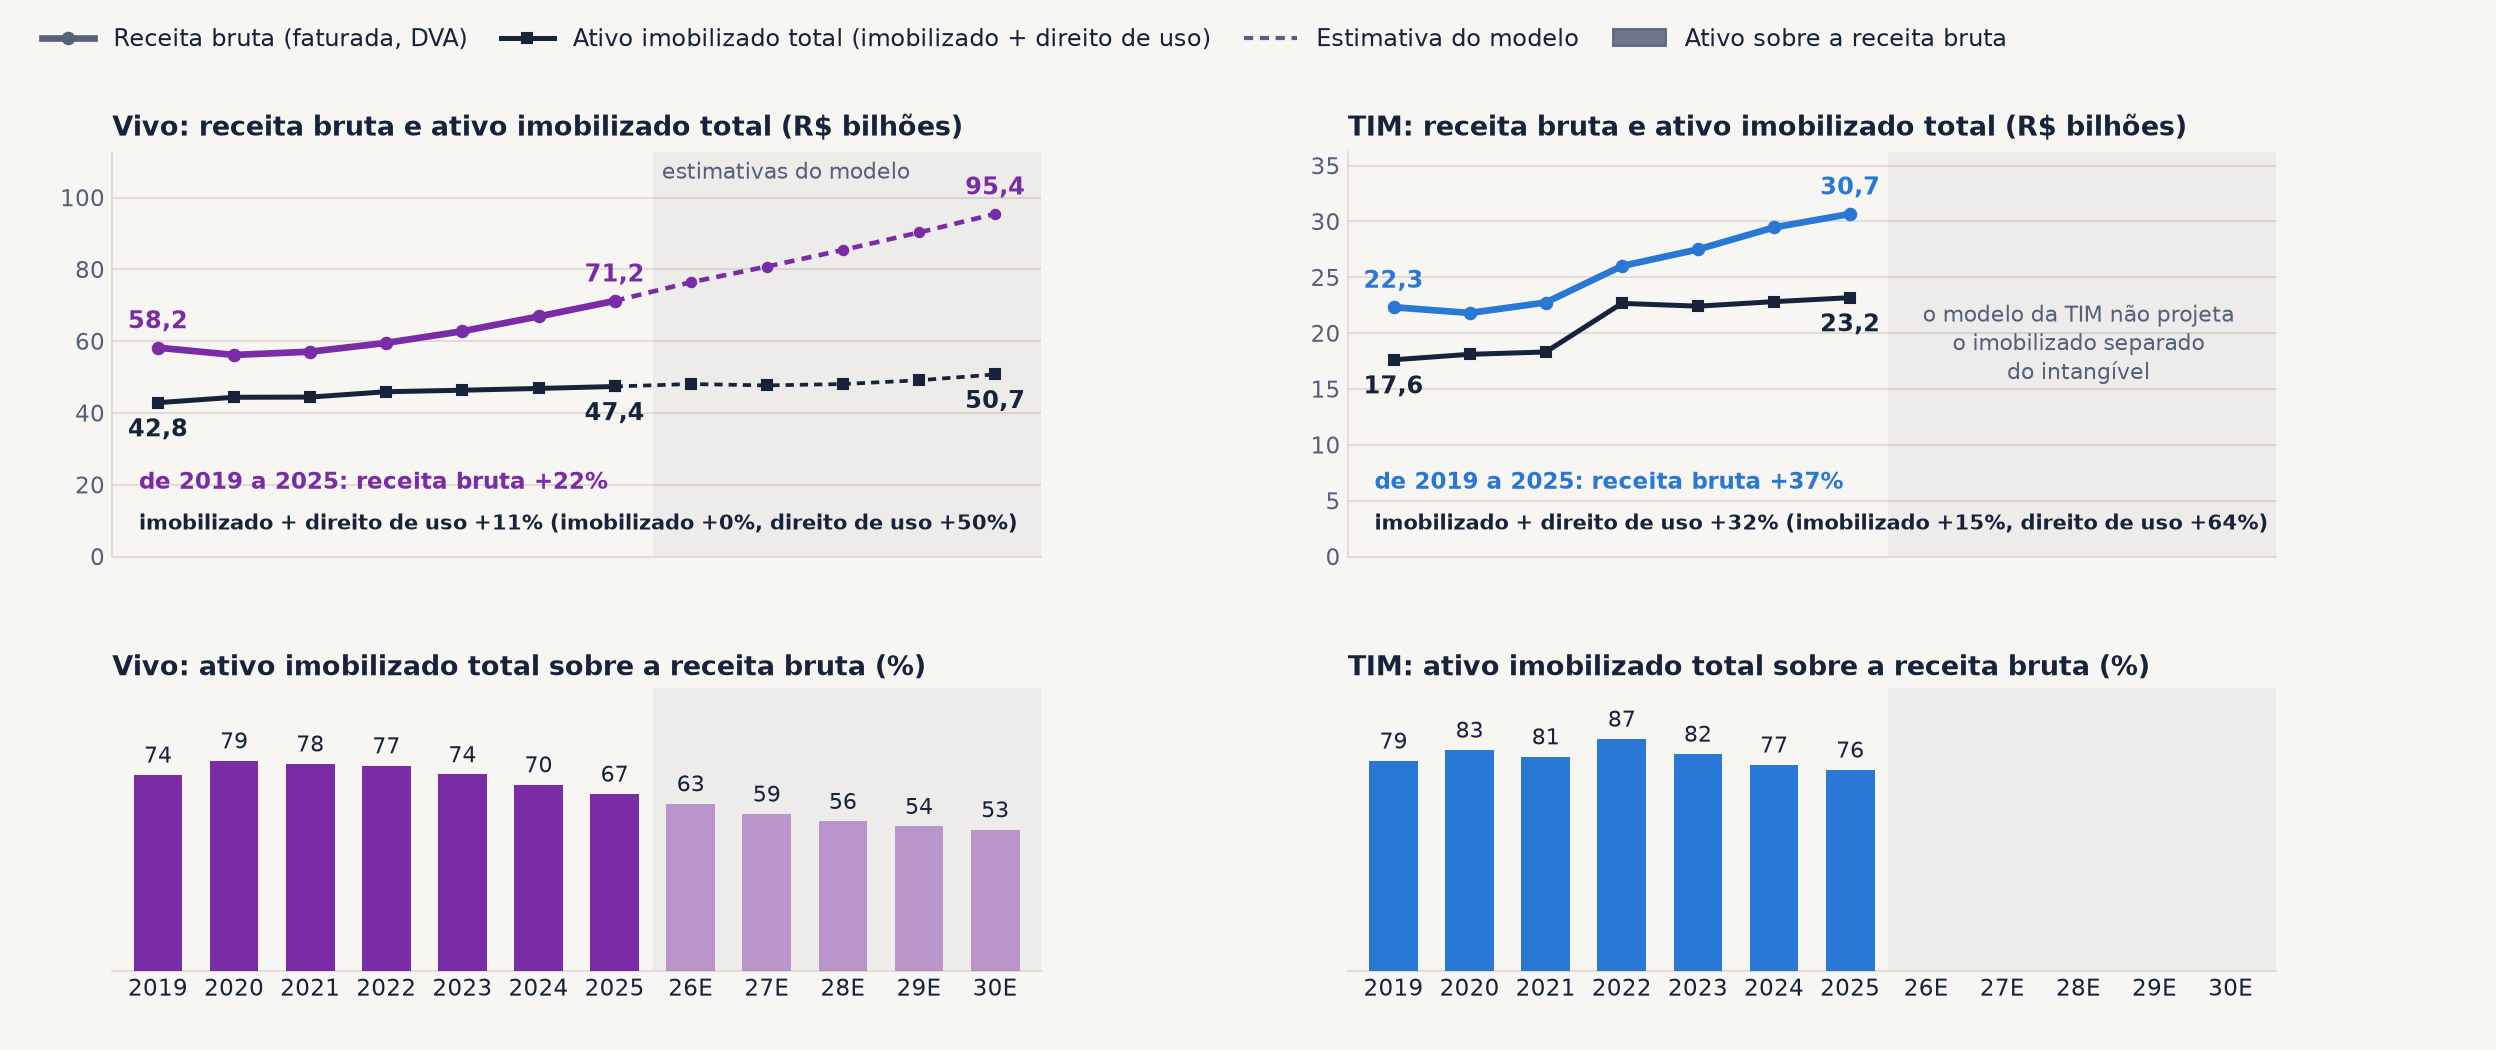
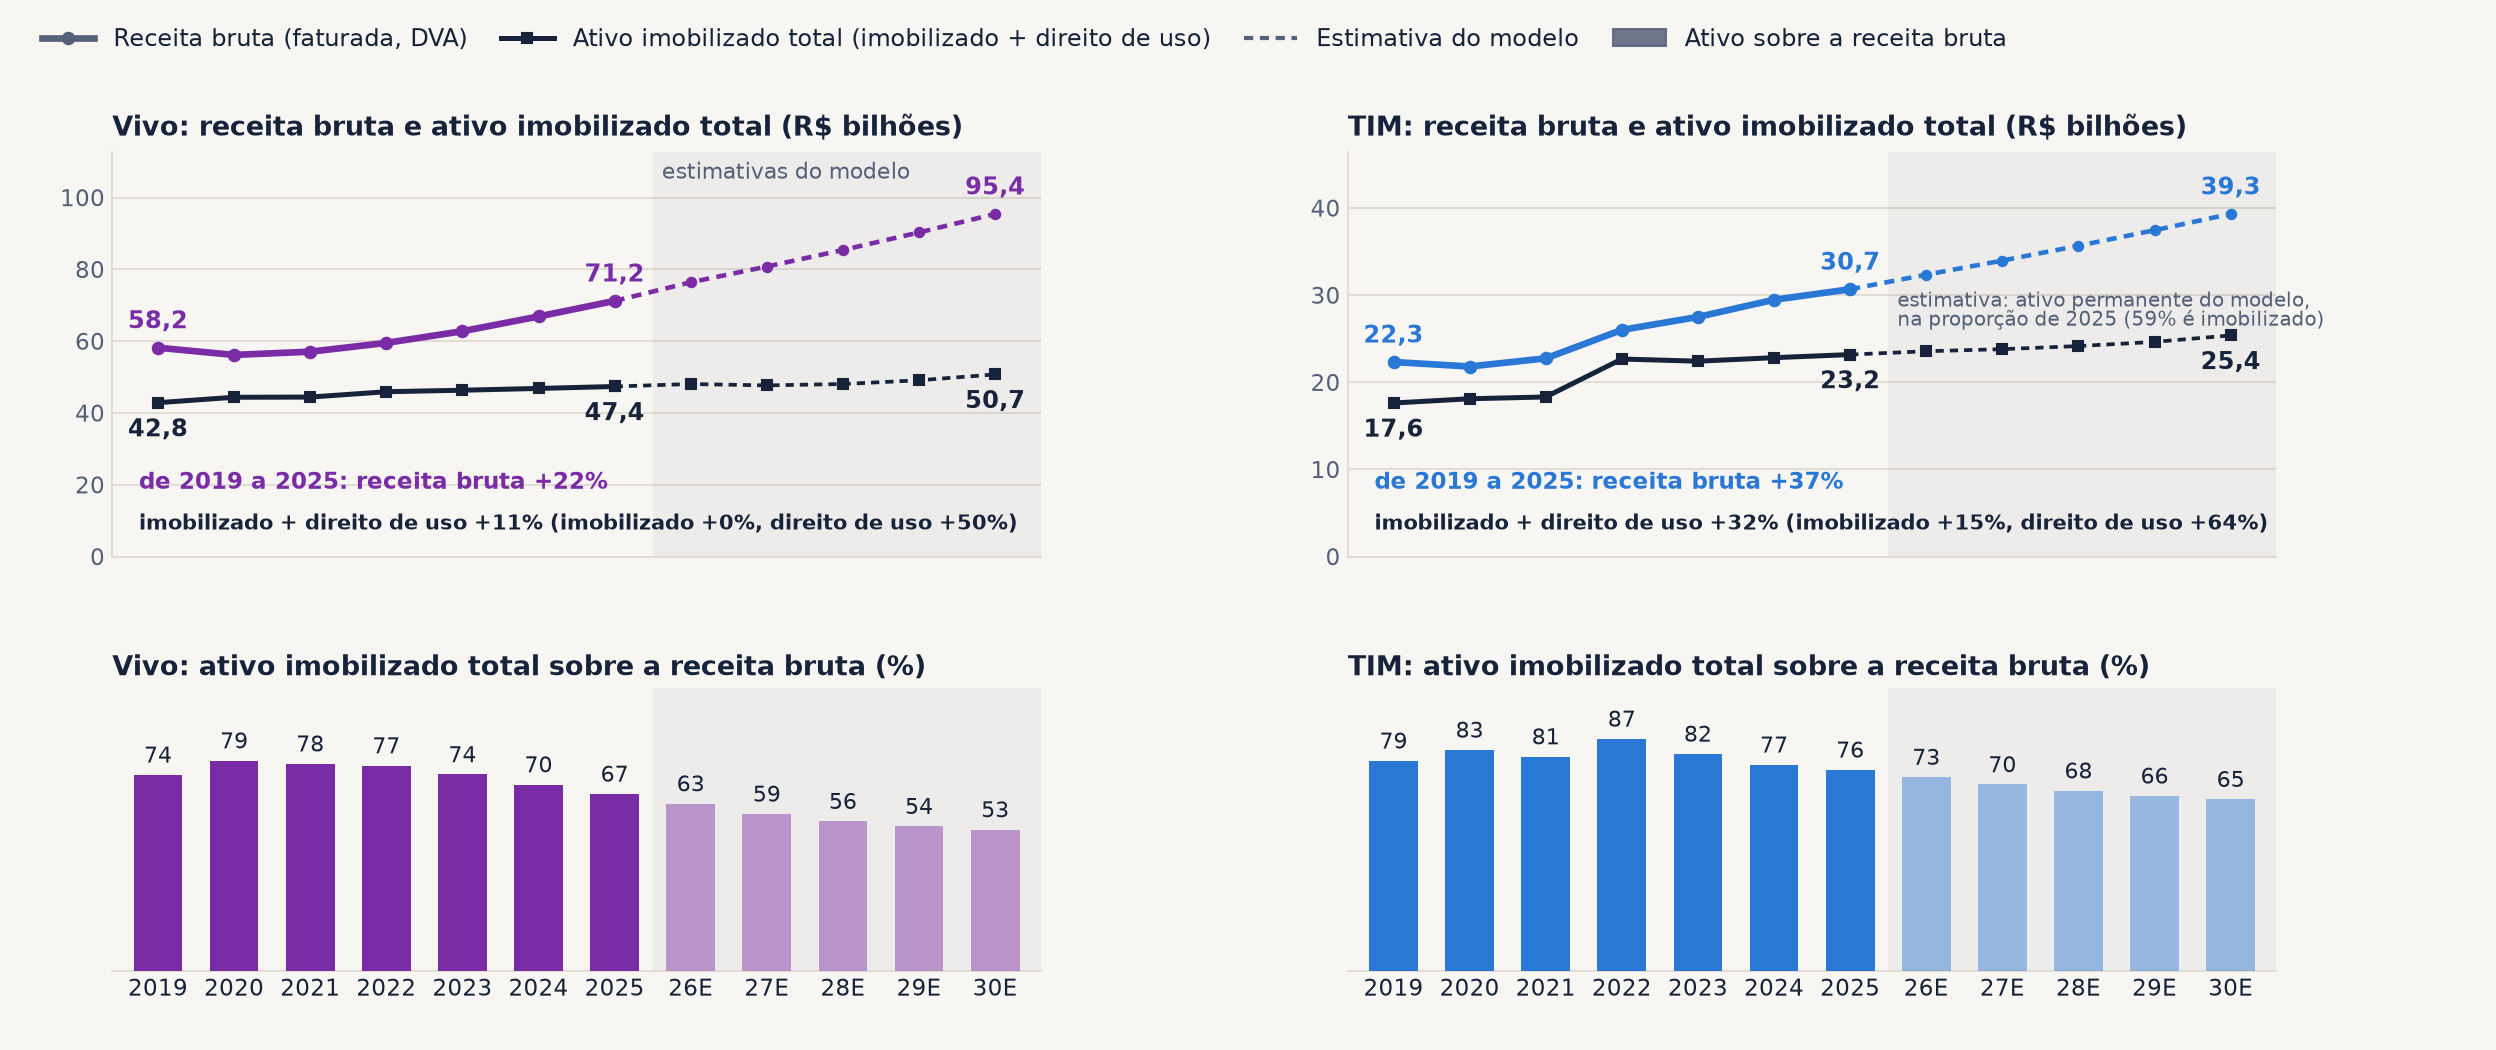
v5.8 - 24/11/2026 23:11 - slide 15: estimativa da TIM
Imobilizado total da TIM de 2026E a 2030E pelo ativo permanente do modelo,
na proporcao de 2025 (59% e imobilizado e direito de uso).

Changed region(s): [[0.5312, 0.1524, 0.9375, 0.4571], [0.75, 0.7314, 0.9062, 0.9448]]

diff --git a/index.html b/index.html
@@ -40,7 +40,7 @@ h1, h2, h3 { font-family:'Space Grotesk', Arial, sans-serif; }
 <div id="palco">
 <section id="capa" class="capa" data-transition="fade">
 <div>
-<p class="chip">v5.7 · 24/11/2026 23:05</p>
+<p class="chip">v5.8 · 24/11/2026 23:11</p>
 </div>
 <div>
 <h1>Telecom Brasil: Vivo e TIM</h1>
@@ -141,10 +141,10 @@ h1, h2, h3 { font-family:'Space Grotesk', Arial, sans-serif; }
 </section>
 <section id="ppe-rob" data-transition="fade">
 <p class="olho">4 · ATIVO IMOBILIZADO TOTAL CONTRA A RECEITA BRUTA</p>
-<h2 class="titulo">Receita bruta cresce 22% na Vivo e 37% na TIM desde 2019 com o ativo crescendo 11% e 32%; o modelo da Vivo leva o ativo de 67% para 53% da receita em 2030E</h2>
-<img class="graf" src="img/v9c_ppe_rob.png" alt="Quatro gráficos, Vivo e TIM, de 2019 a 2025 e, na Vivo, com a estimativa do modelo até 2030. Em cima, a receita bruta e o ativo imobilizado total (imobilizado mais direito de uso) em bilhões de reais. Embaixo, na mesma escala, o ativo imobilizado total sobre a receita bruta, em percentual">
-<p class="fonte">Fonte: DFP (CVM) e modelos de 24/11/2026. Ativo imobilizado total = imobilizado + direito de uso, líquido de depreciação. Receita bruta = vendas da DVA (faturado, sem descontos). Estimativa da Vivo: receita líquida do modelo pela relação bruta/líquida de 2025.</p>
-<aside>Desvinculação aqui é a receita crescer sem o ativo crescer junto. Vivo: receita bruta de R$ 58,2 bilhões em 2019 para R$ 71,2 bilhões em 2025 (+22%); ativo imobilizado total de R$ 42,8 bilhões para R$ 47,4 bilhões (+11%). O imobilizado próprio ficou parado (R$ 34,1 bilhões em 2019, R$ 34,2 bilhões em 2025); todo o crescimento veio do direito de uso, de R$ 8,8 bilhões para R$ 13,1 bilhões (+50%). Ativo sobre a receita bruta: 74% em 2019, 79% em 2020, 78% em 2021, 77% em 2022, 74% em 2023, 70% em 2024 e 67% em 2025. TIM: receita bruta de R$ 22,3 bilhões para R$ 30,7 bilhões (+37%, com a Oi em 2022); ativo de R$ 17,6 bilhões para R$ 23,2 bilhões (+32%), com imobilizado +15% e direito de uso +64% (torres da Oi). Ativo sobre a receita bruta: 79% em 2019, 83% em 2020, 81% em 2021, 87% em 2022, 82% em 2023, 77% em 2024 e 76% em 2025. Na TIM a desvinculação só aparece depois de 2022; no período inteiro, receita e ativo andaram quase juntos. O que o modelo assume. Vivo: ativo de R$ 48,0 bilhões em 2026E, R$ 47,7 bilhões em 2027E e R$ 50,7 bilhões em 2030E, contra receita bruta de R$ 95,4 bilhões em 2030E; a relação cai para 63% em 2026E, 59% em 2027E, 56% em 2028E, 54% em 2029E e 53% em 2030E. Para manter em 2030E os 67% de 2025, a Vivo precisaria de R$ 63,5 bilhões de ativo, R$ 12,8 bilhões a mais do que o modelo projeta: esse é o tamanho da aposta na desvinculação, cerca de R$ 2,6 bilhões por ano de investimento que o modelo não faz. O TimMOD não projeta o imobilizado separado do intangível. A favor da desvinculação: o cobre e as tecnologias legadas saem da base, a fibra e o 5G carregam mais tráfego por real investido, há compartilhamento de rede e redes neutras, e parte da receita nova (digital, B2B, serviços financeiros) não usa rede. Contra: a receita está em reais correntes e o ativo a custo histórico, então com inflação a relação cai sozinha, sem ganho de eficiência; de 2019 a 2025 a receita bruta da Vivo cresceu menos que a inflação. Além disso, o tráfego de dados do setor voltou a crescer em 2026 (+22% no primeiro semestre) e a queda de 2023 a 2025 coincide com o tráfego parado. A medida não inclui intangíveis (licenças, software, ágio).</aside>
+<h2 class="titulo">Receita bruta cresce 22% na Vivo e 37% na TIM desde 2019 com o ativo crescendo 11% e 32%; os modelos levam o ativo a 53% e 65% da receita bruta em 2030E</h2>
+<img class="graf" src="img/v9c_ppe_rob.png" alt="Quatro gráficos, Vivo e TIM, de 2019 a 2025 e com a estimativa até 2030. Em cima, a receita bruta e o ativo imobilizado total (imobilizado mais direito de uso) em bilhões de reais. Embaixo, na mesma escala, o ativo imobilizado total sobre a receita bruta, em percentual">
+<p class="fonte">Fonte: DFP (CVM) e modelos de 24/11/2026. Ativo imobilizado total = imobilizado + direito de uso, líquido de depreciação. Receita bruta = vendas da DVA (faturado, sem descontos). Estimativas: receita líquida dos modelos pela relação bruta/líquida de 2025; na TIM, ativo permanente do modelo na proporção de 2025.</p>
+<aside>Desvinculação aqui é a receita crescer sem o ativo crescer junto. Vivo: receita bruta de R$ 58,2 bilhões em 2019 para R$ 71,2 bilhões em 2025 (+22%); ativo imobilizado total de R$ 42,8 bilhões para R$ 47,4 bilhões (+11%). O imobilizado próprio ficou parado (R$ 34,1 bilhões em 2019, R$ 34,2 bilhões em 2025); todo o crescimento veio do direito de uso, de R$ 8,8 bilhões para R$ 13,1 bilhões (+50%). Ativo sobre a receita bruta: 74% em 2019, 79% em 2020, 78% em 2021, 77% em 2022, 74% em 2023, 70% em 2024 e 67% em 2025. TIM: receita bruta de R$ 22,3 bilhões para R$ 30,7 bilhões (+37%, com a Oi em 2022); ativo de R$ 17,6 bilhões para R$ 23,2 bilhões (+32%), com imobilizado +15% e direito de uso +64% (torres da Oi). Ativo sobre a receita bruta: 79% em 2019, 83% em 2020, 81% em 2021, 87% em 2022, 82% em 2023, 77% em 2024 e 76% em 2025. Na TIM a desvinculação só aparece depois de 2022; no período inteiro, receita e ativo andaram quase juntos. O que o modelo assume. Vivo: ativo de R$ 48,0 bilhões em 2026E, R$ 47,7 bilhões em 2027E e R$ 50,7 bilhões em 2030E, contra receita bruta de R$ 95,4 bilhões em 2030E; a relação cai para 63% em 2026E, 59% em 2027E, 56% em 2028E, 54% em 2029E e 53% em 2030E. Para manter em 2030E os 67% de 2025, a Vivo precisaria de R$ 63,5 bilhões de ativo, R$ 12,8 bilhões a mais do que o modelo projeta: esse é o tamanho da aposta na desvinculação, cerca de R$ 2,6 bilhões por ano de investimento que o modelo não faz. TIM: o balanço projetado do modelo tem uma linha só para o ativo permanente (imobilizado, direito de uso, licenças e demais intangíveis), que vai de R$ 39,0 bilhões em 2025 para R$ 42,7 bilhões em 2030E. A estimativa do slide mantém em 59% a parte de imobilizado e direito de uso de 2025: R$ 23,6 bilhões em 2026E e R$ 25,4 bilhões em 2030E, contra receita bruta de R$ 39,3 bilhões; a relação cai para 73% em 2026E, 70% em 2027E, 68% em 2028E, 66% em 2029E e 65% em 2030E. Para manter os 76% de 2025 seriam R$ 29,7 bilhões de ativo em 2030E, R$ 4,3 bilhões a mais. Essa abertura é uma aproximação do slide, não uma linha do modelo. A favor da desvinculação: o cobre e as tecnologias legadas saem da base, a fibra e o 5G carregam mais tráfego por real investido, há compartilhamento de rede e redes neutras, e parte da receita nova (digital, B2B, serviços financeiros) não usa rede. Contra: a receita está em reais correntes e o ativo a custo histórico, então com inflação a relação cai sozinha, sem ganho de eficiência; de 2019 a 2025 a receita bruta da Vivo cresceu menos que a inflação. Além disso, o tráfego de dados do setor voltou a crescer em 2026 (+22% no primeiro semestre) e a queda de 2023 a 2025 coincide com o tráfego parado. A medida não inclui intangíveis (licenças, software, ágio).</aside>
 </section>
 <section id="lucro-frente" data-transition="fade">
 <p class="olho">5 · LUCRO LÍQUIDO PARA FRENTE</p>

diff --git a/README.md b/README.md
@@ -1,3 +1,3 @@
 # Telecom Brasil: Vivo e TIM
 
-Deck de telecom (v5.7 · 24/11/2026 23:05): o setor contra a inflação e o PIB, receita, margem, EBITDA, capex e arrendamento, lucro, payout, Fistel e valuation de Vivo e TIM.
+Deck de telecom (v5.8 · 24/11/2026 23:11): o setor contra a inflação e o PIB, receita, margem, EBITDA, capex e arrendamento, lucro, payout, Fistel e valuation de Vivo e TIM.
